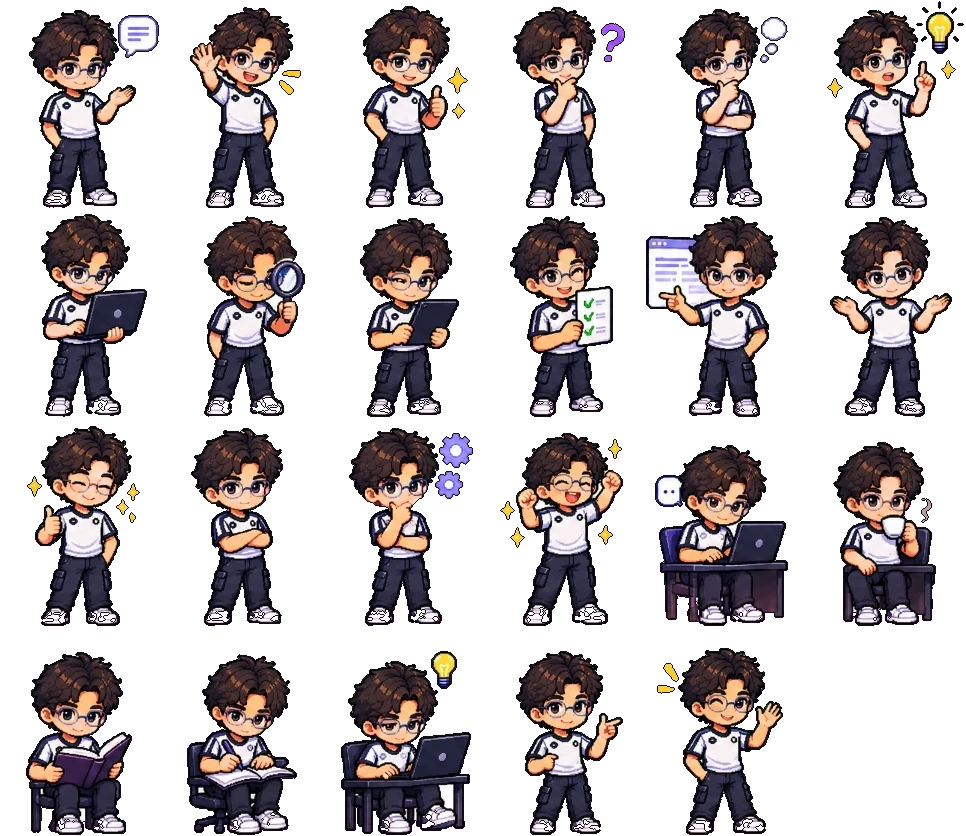
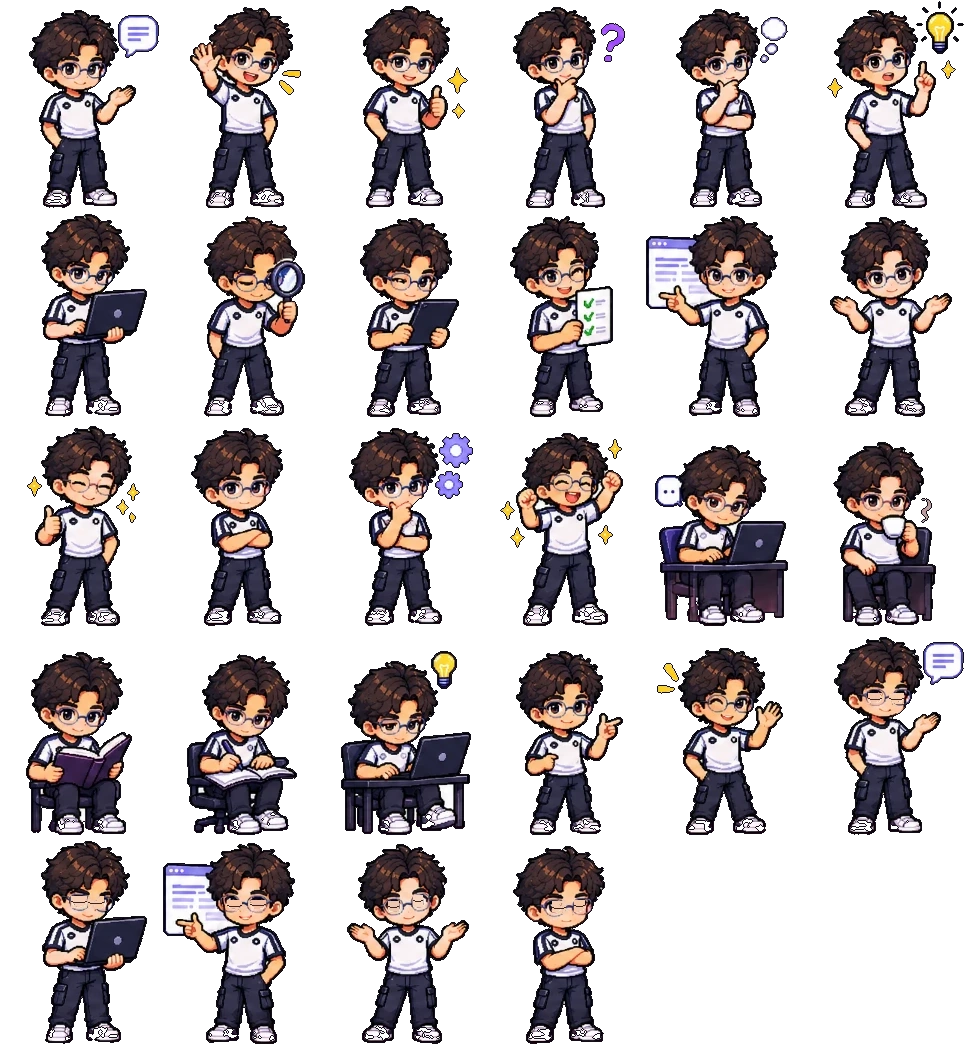
Assistente IA: cabelo ao vento e piscar

diff --git a/demos/sistemas/base/assistente-ia.js b/demos/sistemas/base/assistente-ia.js
@@ -1,10 +1,14 @@
 // Personagem do Assistente IA (camisa branca; poses do dono em assistente-ia.webp, sem redesenho).
-// Animação de pixel art clássica: pixels nítidos, movimento em pixels inteiros, 8 quadros por segundo.
-// Uma pose por situação (troca só quando algo acontece); em cada uma ele respira e faz o gesto do momento.
-// Folha gerada por scratchpad/iaass/montar_branca.py: célula W×H, 6 por linha e a linha do cinto de cada pose.
-const W = 161, H = 209, POR_LINHA = 6, M = 8, QPS = 8; // M: folga em cima e embaixo para o pulinho
-const POSES = ['conversando', 'ola', 'joia', 'duvida', 'pensando', 'ideia', 'pesquisando', 'analisando', 'verificando', 'listando', 'apresentando', 'naosei', 'confirmado', 'negativo', 'processando', 'concluido', 'trabalhando', 'pausa', 'lendo', 'anotando', 'estudando', 'podedeixar', 'tchau'];
+// Animação de pixel art: pixels nítidos, movimento em pixels inteiros, 10 quadros por segundo.
+// Uma pose por situação (troca só quando algo acontece); em cada uma ele respira, as pontas do cabelo balançam
+// como ao vento, pisca de vez em quando e faz o gesto do momento (aceno, pulo, "não").
+// Folha gerada por scratchpad/iaass/montar_branca.py: célula W×H, 6 por linha, cinto e faixa do cabelo de cada pose.
+const W = 161, H = 209, POR_LINHA = 6, M = 8, QPS = 10; // M: folga em cima e embaixo para o pulinho
+const POSES = ['conversando', 'ola', 'joia', 'duvida', 'pensando', 'ideia', 'pesquisando', 'analisando', 'verificando', 'listando', 'apresentando', 'naosei', 'confirmado', 'negativo', 'processando', 'concluido', 'trabalhando', 'pausa', 'lendo', 'anotando', 'estudando', 'podedeixar', 'tchau', 'conversando_pisca', 'pesquisando_pisca', 'apresentando_pisca', 'naosei_pisca', 'negativo_pisca'];
 const CINTURA = { conversando: 112, ola: 111, joia: 111, duvida: 111, pensando: 112, ideia: 108, pesquisando: 110, analisando: 111, verificando: 112, listando: 111, apresentando: 111, naosei: 112, confirmado: 112, negativo: 112, processando: 112, concluido: 115, trabalhando: 121, pausa: 119, lendo: 120, anotando: 121, estudando: 119, podedeixar: 119, tchau: 118 };
+const CABELO = { conversando: [20, 46, 41, 86], ola: [15, 39, 48, 101], joia: [9, 39, 50, 122], duvida: [14, 43, 39, 80], pensando: [21, 42, 43, 85], ideia: [18, 48, 38, 77], pesquisando: [9, 44, 51, 98], analisando: [9, 45, 53, 130], verificando: [14, 48, 50, 99], listando: [17, 44, 39, 78], apresentando: [17, 42, 92, 125], naosei: [24, 44, 48, 82], confirmado: [17, 43, 53, 98], negativo: [20, 48, 42, 85], processando: [21, 50, 37, 83], concluido: [26, 44, 49, 91], trabalhando: [31, 64, 46, 117], pausa: [35, 59, 43, 82], lendo: [35, 65, 42, 87], anotando: [36, 68, 54, 93], estudando: [42, 76, 37, 83], podedeixar: [33, 59, 44, 84], tchau: [31, 54, 45, 86] }; // [topo, testa, x0, x1]
+const PISCA = new Set(['conversando', 'pesquisando', 'apresentando', 'naosei', 'negativo']);
+const VENTO = [0, 0, 1, 1, 1, 0, 0, -1, -1, -1];
 const ESTADOS = {
   parado: ['conversando', 'calmo'], ouvindo: ['conversando', 'calmo'], ola: ['ola', 'aceno'], tchau: ['tchau', 'aceno'],
   pensando: ['processando', 'trabalha'], pesquisando: ['pesquisando', 'trabalha'], explicando: ['apresentando', 'fala'],
@@ -12,16 +16,15 @@ const ESTADOS = {
   naosei: ['naosei', 'nega'], negativo: ['negativo', 'nega'], pausa: ['pausa', 'calmo'],
 };
 let folha = null;
-const carregar = () => folha || (folha = new Promise((ok, erro) => { const i = new Image(); i.onload = () => ok(i); i.onerror = erro; i.src = new URL('./assistente-ia.webp?v=9', import.meta.url).href; }));
+const carregar = () => folha || (folha = new Promise((ok, erro) => { const i = new Image(); i.onload = () => ok(i); i.onerror = erro; i.src = new URL('./assistente-ia.webp?v=10', import.meta.url).href; }));
 
-/** Quadro q (8 por segundo, contado desde o começo do estado) -> deslocamento em pixels inteiros: corpo (dx, dy) e tronco (sobe). */
+/** Quadro q (10 por segundo, desde o começo do estado) -> deslocamento em pixels inteiros: corpo (dx, dy) e tronco (sobe). */
 function passo(mov, q) {
-  const respira = Math.floor(q / 4) % 2;
-  if (mov === 'aceno') return [0, q < 16 ? [0, -1, -2, -1][q % 4] : 0, respira];
-  if (mov === 'pensa') return [[0, 0, 1, 1, 0, 0, -1, -1][q % 8], 0, respira];
-  if (mov === 'fala' || mov === 'trabalha') return [0, 0, q % 2];
-  if (mov === 'pulo') return [0, q < 8 ? [0, -3, -6, -7, -6, -3, 0, 1][q] : 0, q < 8 ? 0 : respira];
-  if (mov === 'nega') return [q < 6 ? [-2, 2, -2, 2, -1, 1][q] : 0, 0, respira];
+  const respira = Math.floor(q / 5) % 2;
+  if (mov === 'aceno') return [0, q < 20 ? [0, -1, -2, -2, -1][q % 5] : 0, respira];
+  if (mov === 'fala' || mov === 'trabalha') return [0, 0, Math.floor(q / 2) % 2];
+  if (mov === 'pulo') return [0, q < 10 ? [0, -3, -6, -8, -8, -6, -3, 0, 1, 0][q] : 0, q < 10 ? 0 : respira];
+  if (mov === 'nega') return [q < 8 ? [-2, 2, -2, 2, -1, 1, -1, 0][q] : 0, 0, respira];
   return [0, 0, respira];
 }
 
@@ -33,22 +36,34 @@ export function personagemIA(el, inicial = 'ola') {
   const ctx = cv.getContext('2d'); ctx.imageSmoothingEnabled = false;
   const calmo = matchMedia('(prefers-reduced-motion: reduce)').matches;
   let atual = ESTADOS[inicial] || ESTADOS.parado, t0 = performance.now(), troca = 0, volta = null, relogio = 0, ultimo = '';
+  let proxPisca = performance.now() + 1800, piscaAte = 0;
+  const celula = (nome) => { const i = POSES.indexOf(nome); return [(i % POR_LINHA) * W, Math.floor(i / POR_LINHA) * H]; };
   const desenhar = () => {
     const t = performance.now();
     if (!cv.isConnected && t - t0 > 1000) { clearInterval(relogio); return; } // a janela fechou
     if (!folha?.pronta) return;
-    const q = Math.floor((t - t0) / (1000 / QPS));
+    const q = Math.floor((t - t0) / (1000 / QPS)), qg = Math.floor(t / (1000 / QPS)), pose = atual[0];
     let [dx, dy, sobe] = calmo ? [0, 0, 0] : passo(atual[1], q);
-    if (!calmo && t - troca < 1000 / QPS) dy += 1;               // troca de pose: abaixa 1 pixel num quadro (assentou)
-    const chave = `${atual[0]}${dx}${dy}${sobe}`;
+    if (!calmo && t - troca < 1000 / QPS) dy += 1;                    // troca de pose: assenta 1 pixel num quadro
+    if (t > proxPisca) { piscaAte = t + 130; proxPisca = t + (Math.random() < 0.2 ? 300 : 2600 + Math.random() * 3400); }
+    const pisca = !calmo && t < piscaAte && PISCA.has(pose);
+    const chave = `${pose}${dx}${dy}${sobe}${pisca}${calmo ? 0 : qg % VENTO.length}`;
     if (chave === ultimo) return; ultimo = chave;
-    const i = POSES.indexOf(atual[0]), sx = (i % POR_LINHA) * W, sy = Math.floor(i / POR_LINHA) * H, c = CINTURA[atual[0]];
+    const [sx, sy] = celula(pose), [tx, ty] = pisca ? celula(pose + '_pisca') : [sx, sy], c = CINTURA[pose];
+    const [y0, y1, x0, x1] = CABELO[pose], meio = y0 + Math.floor((y1 - y0) / 2), oy = M + dy - sobe;
     ctx.clearRect(0, 0, cv.width, cv.height);
     ctx.drawImage(folha.img, sx, sy + c - 1, W, H - c + 1, dx, M + dy + c - 1, W, H - c + 1);   // pernas
-    ctx.drawImage(folha.img, sx, sy, W, c, dx, M + dy - sobe, W, c);                         // tronco e cabeça
+    ctx.drawImage(folha.img, tx, ty + meio, W, c - meio, dx, oy + meio, W, c - meio);             // rosto e tronco
+    ctx.drawImage(folha.img, tx, ty, W, y0, dx, oy, W, y0);                                         // acima do cabelo (enfeites)
+    for (let y = y0; y < meio; y++) {                                                                // pontas do cabelo ao vento
+      const v = calmo ? 0 : VENTO[(qg - Math.floor((y - y0) / 3) + 100 * VENTO.length) % VENTO.length];
+      ctx.drawImage(folha.img, tx, ty + y, x0 - 2, 1, dx, oy + y, x0 - 2, 1);
+      ctx.drawImage(folha.img, tx + x1 + 3, ty + y, W - x1 - 3, 1, dx + x1 + 3, oy + y, W - x1 - 3, 1);
+      ctx.drawImage(folha.img, tx + x0 - 2, ty + y, x1 - x0 + 5, 1, dx + x0 - 2 + v, oy + y, x1 - x0 + 5, 1);
+    }
   };
   carregar().then((img) => { folha.img = img; folha.pronta = true; desenhar(); }, () => { cv.remove(); });
-  relogio = setInterval(desenhar, 1000 / QPS / 2);   // pixel art: 8 quadros por segundo (o relógio confere 2 vezes por quadro)
+  relogio = setInterval(desenhar, 1000 / QPS / 2);   // pixel art: 10 quadros por segundo (o relógio confere 2 vezes por quadro)
   return {
     atual: inicial,
     estado(nome, depois = 0, proximo = 'parado') {

diff --git a/demos/sistemas/base/nexo.js b/demos/sistemas/base/nexo.js
@@ -15,7 +15,7 @@ import { prepararExtras } from './extras.js';
 import { cargosDe, resumoAcesso, editarPermissoes } from './equipe.js';
 import { paginaImportar } from './planilha.js';
 import { prepararSuporte } from './suporte.js';
-import { personagemIA } from './assistente-ia.js?v=9';
+import { personagemIA } from './assistente-ia.js?v=10';
 // Assistente IA: liberado em 17/10 (sem a chave do Gemini, a função nexo-ia responde que está sendo ativado)
 const IA_LIBERADA = true;
 
